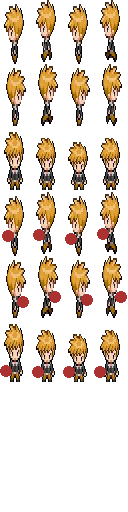
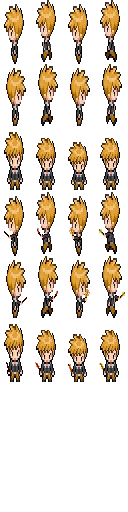
Dodanie nowych animacji w Boss.py

diff --git a/Boss.py b/Boss.py
@@ -93,7 +93,7 @@ class BossGame:
                         else:
                             self.window.blit(sprite.get_sheet(int(sprite.animate),
                                                               2), (sprite.x, sprite.y))
-                    if sprite.animate >= sprite.img_x:
+                    if sprite.animate >= sprite.img_x - 1:
                         sprite.animate = 0
                     else:
                         sprite.animate += 0.1
